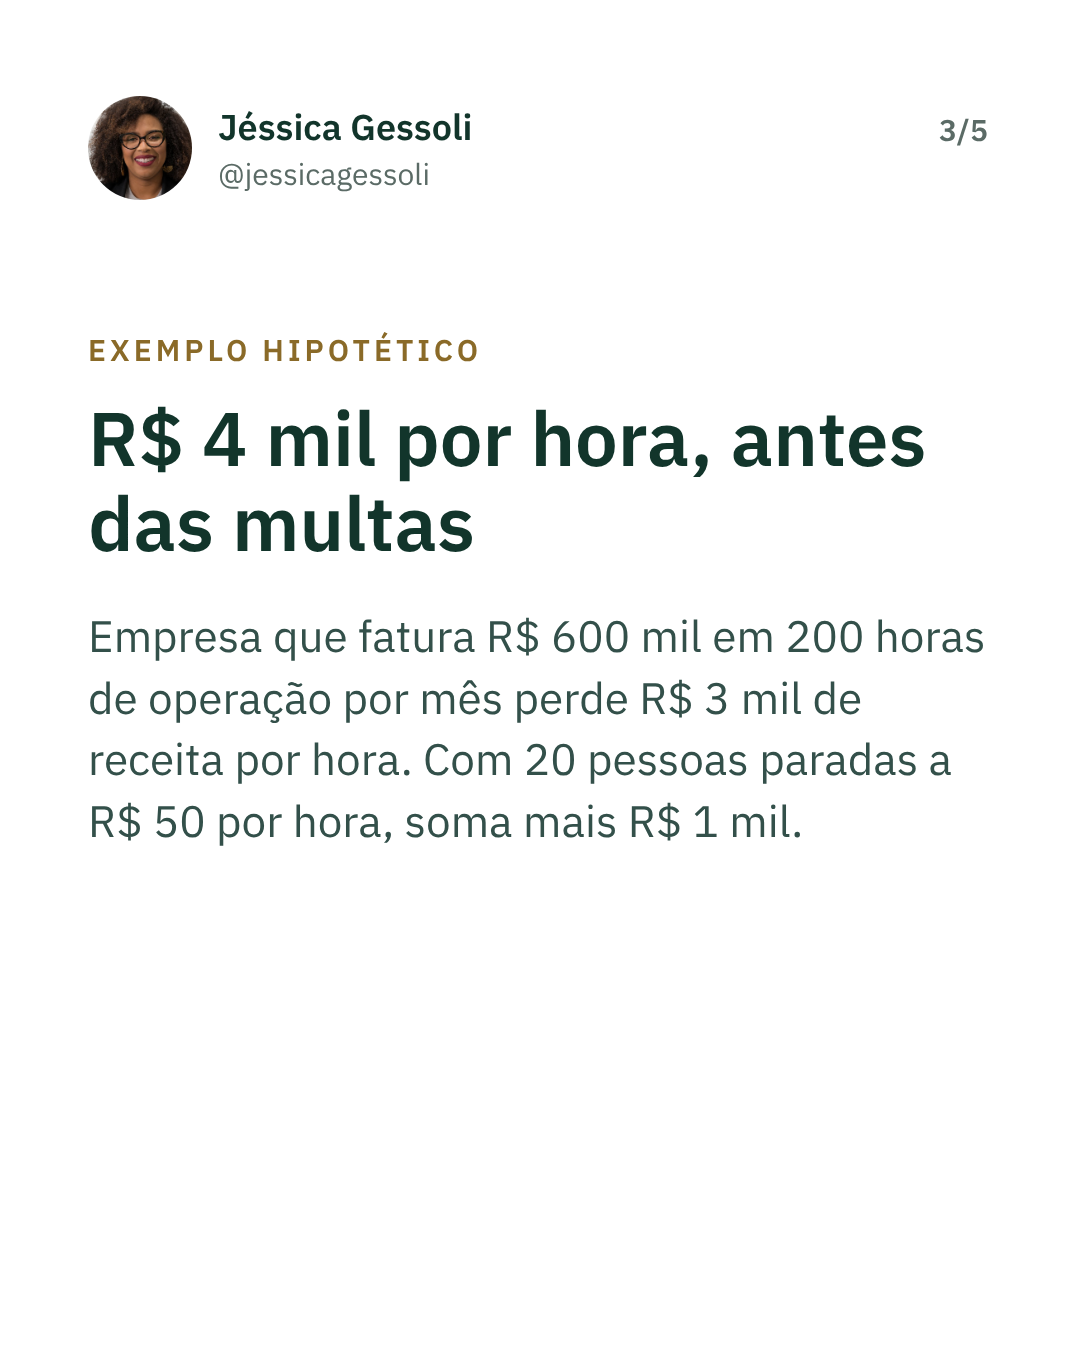
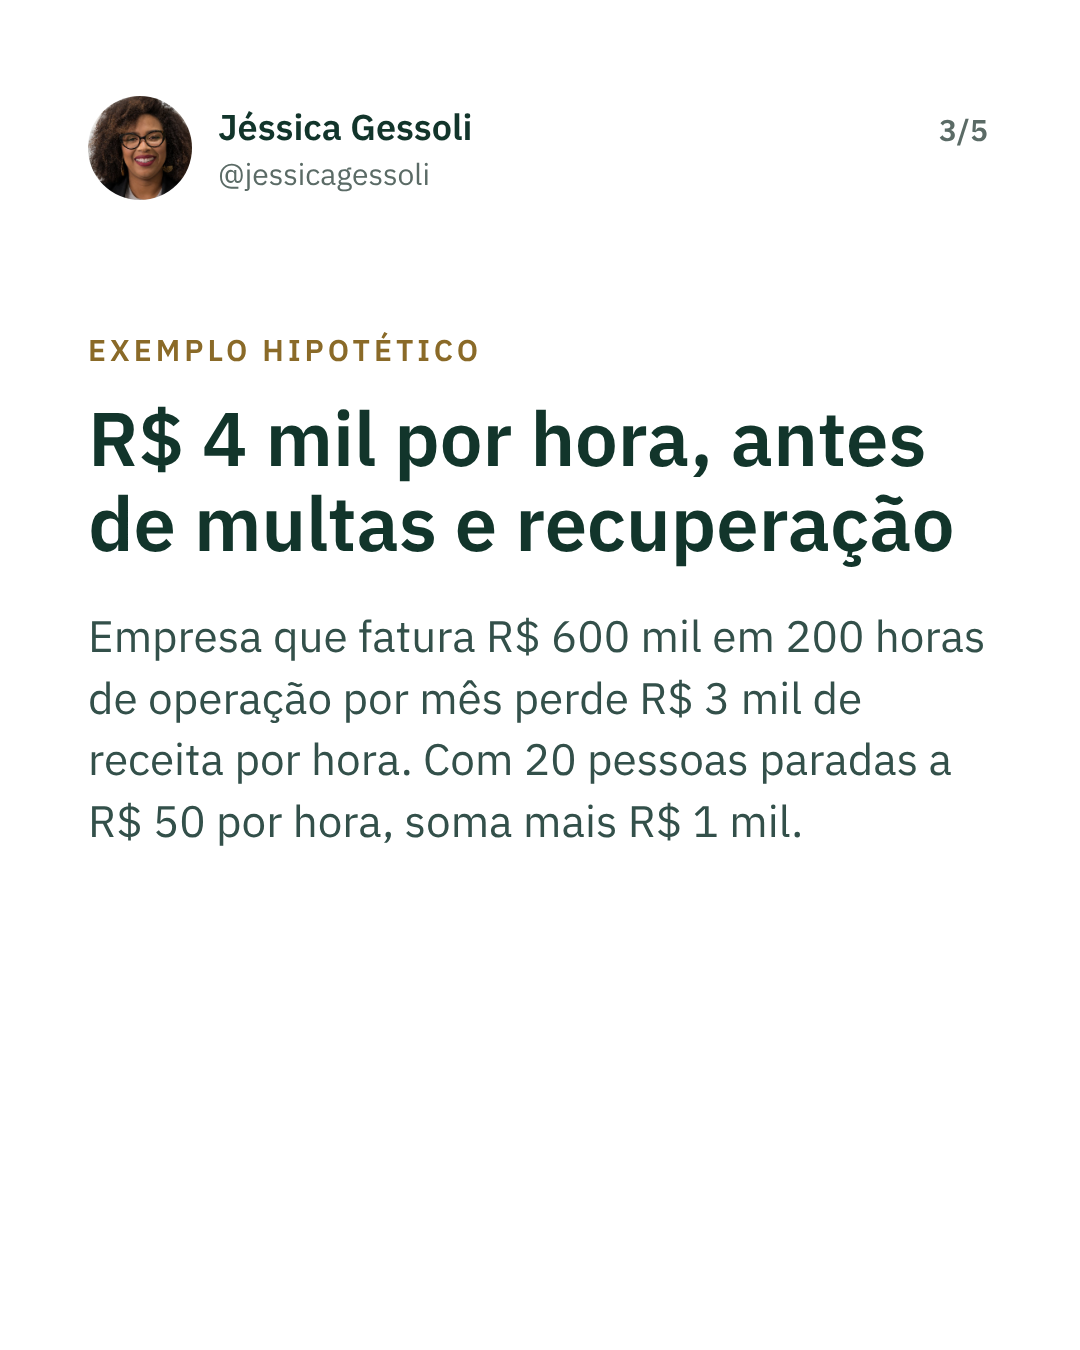
Revisão dos posts de 10/11 a 22/01: concordância, termos em inglês e afirmações sem fonte
Claude-Session: https://claude.ai/code/session_01RS39gKmJF241FbCuKhxQg6

Changed region(s): [[0.1222, 0.3422, 0.8861, 0.4356]]

diff --git a/campaigns/social/lote-2026-11-a-2027-01/posts_jan.py b/campaigns/social/lote-2026-11-a-2027-01/posts_jan.py
@@ -49,13 +49,13 @@ A política de IA da sua empresa cabe em 1 página, ou ela ainda não existe? Me
   slides=[
    ("cover", "Ano novo, senha nova? Faça [[isto]] no lugar.", "2 passos que protegem mais →"),
    ("text", "PASSO Nº 1", "Gerenciador de senhas", "Um aplicativo que cria e guarda uma senha diferente para cada conta. Você só decora uma."),
-   ("text", "PASSO Nº 2", "Confirmação em duas etapas", "No e-mail, no banco, no WhatsApp e nas redes do seu Negócio. Mesmo com a senha, o golpista não entra."),
+   ("text", "PASSO Nº 2", "Confirmação em duas etapas", "No e-mail, no banco, no WhatsApp e nas redes do seu Negócio. Mesmo com a senha, fica muito mais difícil o golpista entrar."),
    ("end", "AGORA ME RESPONDE", "Você usa a [[mesma senha]] em mais de um lugar?", "Seja sincero no direct. Eu te ajudo a começar."),
   ],
   texto="""Ano novo, senha nova? Faça isto no lugar.
 
 1. Gerenciador de senhas: um aplicativo que cria e guarda uma senha diferente para cada conta. Você só decora uma.
-2. Confirmação em duas etapas no e-mail, no banco, no WhatsApp e nas redes do seu Negócio. Mesmo com a senha, o golpista não entra.
+2. Confirmação em duas etapas no e-mail, no banco, no WhatsApp e nas redes do seu Negócio. Mesmo com a senha, fica muito mais difícil o golpista entrar.
 
 Trocar todas as senhas por outras parecidas não resolve. Senha repetida é o que faz um vazamento virar vários.
 
@@ -78,7 +78,7 @@ Continuidade de negócios começa por três perguntas:
 2. Em quanto tempo dói? Em quantas horas a parada vira multa, cliente perdido ou operação travada.
 3. O plano cabe nesse tempo? Se o processo aguenta 4 horas e a restauração leva 2 dias, o plano não existe.
 
-Em infraestrutura crítica, onde parar não é opção, essa conta é o ponto de partida. Na maioria das empresas, ela só aparece na crise.
+Em infraestrutura crítica, onde parar não é opção, essa conta é o ponto de partida. Em muitas empresas, ela só aparece na crise.
 
 Qual processo da sua empresa aguenta menos tempo parado? Responde nos comentários com o processo e as horas.
 
@@ -91,7 +91,7 @@ Qual processo da sua empresa aguenta menos tempo parado? Responde nos comentári
 Entre 2016 e 2019, tive um restaurante próprio, com operação digital, pagamentos, indicadores e atendimento ao cliente. Do outro lado da mesa, três coisas ficaram claras:
 
 1. Para o dono, sistema parado não é incidente. É fila, pedido perdido e caixa vazio no fim do dia.
-2. Quem tem um negócio pequeno não precisa de mais ferramenta. Precisa saber o que fazer primeiro.
+2. Quem é dono de um Negócio não precisa de mais ferramenta. Precisa saber o que fazer primeiro.
 3. Recomendação que não cabe no orçamento e na rotina não é recomendação.
 
 Hoje, quando falo com diretoria ou com dono de Negócio, essa é a régua.
@@ -169,8 +169,8 @@ Quantas contas de administrador a sua empresa tem hoje? Se ninguém sabe o núme
   slides=[
    ("cover", "Quanto custa [[1 hora parada]]? A conta que a diretoria entende.", "A fórmula em 4 partes →"),
    ("list", "A FÓRMULA", "Custo de 1 hora parada =", ["Receita que deixa de entrar na hora.", "+ Custo da equipe parada.", "+ Multas e penalidades de contrato.", "+ Custo de recuperação: horas extras, fornecedor, retrabalho."]),
-   ("text", "EXEMPLO HIPOTÉTICO", "R$ 4 mil por hora, antes das multas", "Empresa que fatura R$ 600 mil em 200 horas de operação por mês perde R$ 3 mil de receita por hora. Com 20 pessoas paradas a R$ 50 por hora, soma mais R$ 1 mil."),
-   ("text", "PARA QUE SERVE", "Comparar com o custo de prevenir", "Um teste de restauração ou uma segunda etapa de login custa menos que algumas horas paradas. Agora a diretoria consegue comparar."),
+   ("text", "EXEMPLO HIPOTÉTICO", "R$ 4 mil por hora, antes de multas e recuperação", "Empresa que fatura R$ 600 mil em 200 horas de operação por mês perde R$ 3 mil de receita por hora. Com 20 pessoas paradas a R$ 50 por hora, soma mais R$ 1 mil."),
+   ("text", "PARA QUE SERVE", "Comparar com o custo de prevenir", "Um teste de restauração ou uma segunda etapa de login costuma custar menos que algumas horas paradas. Agora a diretoria consegue comparar."),
    ("end", "AGORA ME RESPONDA", "A sua diretoria sabe o custo de [[1 hora parada]]?", "Responde nos comentários: sim, mais ou menos ou não."),
   ],
   texto="""Quanto custa 1 hora parada? Essa é a conta que a diretoria entende.
@@ -181,7 +181,7 @@ Custo de 1 hora parada =
 3. + Multas e penalidades de contrato
 4. + Custo de recuperação: horas extras, fornecedor, retrabalho
 
-Exemplo hipotético: uma empresa que fatura R$ 600 mil em 200 horas de operação por mês perde R$ 3 mil de receita por hora. Com 20 pessoas paradas a R$ 50 por hora, soma mais R$ 1 mil. São R$ 4 mil por hora antes das multas.
+Exemplo hipotético: uma empresa que fatura R$ 600 mil em 200 horas de operação por mês perde R$ 3 mil de receita por hora. Com 20 pessoas paradas a R$ 50 por hora, soma mais R$ 1 mil. São R$ 4 mil por hora, antes de multas e custos de recuperação.
 
 Com esse número, a diretoria consegue comparar o custo de prevenir com o custo de parar.
 
@@ -193,14 +193,14 @@ A sua diretoria sabe o custo de 1 hora parada? Responde nos comentários: sim, m
  dict(slug="2027-01-19-ia-sem-lei", rede="linkedin", data="2027-01-19T11:00:00", tipo="documento",
   titulo_doc="O que o regulador exige do board: inteligência artificial",
   slides=[
-   ("cover", "O Brasil ainda não tem lei de IA. Isso [[não deixa]] o board sem obrigação.", "O que já vale hoje →"),
+   ("cover", "O Brasil ainda não tem lei de IA. Isso [[não deixa]] o conselho sem obrigação.", "O que já vale hoje →"),
    ("text", "O PROJETO", "PL 2338/2023", "O Marco Legal da IA foi aprovado no Senado em dezembro de 2024. Na Câmara, aguarda o parecer do relator na comissão especial."),
    ("text", "O QUE JÁ VALE", "LGPD, artigo 20", "Quem é afetado por decisão tomada só com base em tratamento automatizado de dados pessoais pode pedir a revisão dessa decisão. Vale para IA que decide crédito, preço ou acesso."),
    ("text", "O QUE OS SETORES FAZEM", "Regras de cibersegurança e de terceirização", "Banco Central, CVM e SUSEP ainda não têm norma de IA. Mas a IA contratada de fornecedor já cai nas regras de cibersegurança, dados e terceirização de cada setor."),
    ("list", "PARA O CONSELHO", "3 perguntas", ["Que decisões automáticas da empresa afetam clientes?", "Conseguimos explicar e revisar essas decisões se alguém pedir?", "A IA dos fornecedores está nos nossos contratos e na nossa política?"]),
    ("end", "AGORA ME RESPONDA", "A sua empresa espera a lei de IA ou [[se prepara]] com as regras que já existem?", "Fontes: Câmara dos Deputados, LCF Monitor e TozziniFreire (2026)."),
   ],
-  texto="""O Brasil ainda não tem lei de IA. Isso não deixa o board sem obrigação.
+  texto="""O Brasil ainda não tem lei de IA. Isso não deixa o conselho sem obrigação.
 
 O que já vale hoje:
 1. O PL 2338/2023, o Marco Legal da IA, foi aprovado no Senado em dezembro de 2024 e aguarda parecer na Câmara.
@@ -241,13 +241,13 @@ Os assistentes de IA da sua empresa podem agir ou só responder? Me conta nos co
  dict(slug="2027-01-20-ig-ia-sem-lei", rede="instagram", data="2027-01-20T10:00:00", tipo="carrossel",
   slides=[
    ("cover", "Ainda não existe lei de IA no Brasil. Isso [[não te protege]].", "O que já vale para o seu Negócio →"),
-   ("text", "O QUE JÁ VALE", "A LGPD", "Se a IA decide algo sobre o seu cliente, como preço ou crédito, ele pode pedir que uma pessoa revise. E dado de cliente continua protegido."),
+   ("text", "O QUE JÁ VALE", "A LGPD", "Se a IA decide sozinha algo sobre o seu cliente, como preço ou crédito, ele pode pedir a revisão dessa decisão. E dado de cliente continua protegido."),
    ("list", "O QUE FAZER AGORA", "3 regras", ["Saiba quais IAs a sua equipe usa.", "Dado de cliente não entra em IA aberta.", "Decisão importante passa por uma pessoa."]),
    ("end", "AGORA ME RESPONDE", "A sua equipe já tem [[regras]] para usar IA?", "Me chama no direct que eu te ajudo a montar."),
   ],
   texto="""Ainda não existe lei de IA no Brasil. Isso não te protege.
 
-A LGPD já vale: se a IA decide algo sobre o seu cliente, como preço ou crédito, ele pode pedir que uma pessoa revise. E dado de cliente continua protegido.
+A LGPD já vale: se a IA decide sozinha algo sobre o seu cliente, como preço ou crédito, ele pode pedir a revisão dessa decisão. E dado de cliente continua protegido.
 
 O que fazer agora:
 1. Saiba quais IAs a sua equipe usa.
@@ -297,7 +297,7 @@ I share the Portuguese version of these topics for business owners on Instagram 
   ],
   texto="""O mapa do regulador: quem cobra cibersegurança do seu setor.
 
-Em 12 partes, a série "O que o regulador exige do board" passou por todos os setores regulados. O resumo:
+Em 12 partes, a série "O que o regulador exige do board" passou pelos principais setores regulados. O resumo:
 
 1. Sistema financeiro já tem regra: CMN 4.893 para bancos, BCB 85 e BCB 538 para pagamentos e corretoras, CVM 35 e 135 para o mercado de capitais e Circular SUSEP 638 para seguros.
 2. Infraestrutura e dados também: REN ANEEL 964 e rotina do ONS para energia, Resolução Anatel 740 para telecom, Resolução CD/ANPD 15 para dados pessoais e RDC Anvisa 657 para software médico.

diff --git a/campaigns/social/lote-2026-11-a-2027-01/posts_nov.py b/campaigns/social/lote-2026-11-a-2027-01/posts_nov.py
@@ -19,7 +19,7 @@ POSTS = [
 A Resolução BCB 85/2021 já pedia que o conselho aprovasse a política de segurança cibernética e o plano de resposta a incidentes. A Resolução BCB 538/2025 foi além:
 
 1. Passou a valer também para corretoras, distribuidoras e corretoras de câmbio.
-2. Exige teste de intrusão anual e independente, com plano de ação para cada achado.
+2. Exige teste de intrusão anual e independente, com plano de ação.
 3. O relatório que chega ao conselho até 31 de março agora traz os incidentes relevantes e o resultado dos testes.
 
 Na prática, o teste deixou de ser assunto da equipe técnica. Virou documento que o conselho precisa ler e cobrar.
@@ -31,7 +31,7 @@ Série "O que o regulador exige do board", parte 5. """ + IG),
  dict(slug="2026-11-11-agente-ia-permissoes", rede="linkedin", data="2026-11-11T11:00:00", tipo="carrossel",
   slides=[
    ("cover", "Agente de IA com acesso a tudo é um funcionário que [[ninguém entrevistou]].", "3 controles antes de liberar →"),
-   ("text", "O QUE MUDOU", "A IA começou a agir", "Agentes de IA não só respondem: enviam e-mail, mexem em planilha, aprovam etapas. Cada acesso que ele recebe é um acesso que alguém pode usar contra a empresa."),
+   ("text", "O QUE MUDOU", "A IA começou a agir", "Agentes de IA não só respondem: enviam e-mail, mexem em planilha, aprovam etapas. Cada acesso que um agente recebe é um acesso que alguém pode usar contra a empresa."),
    ("text", "CONTROLE Nº 1", "Acesso mínimo", "O agente recebe só o acesso que a tarefa exige, por tempo definido. Nada de copiar o perfil de um gestor."),
    ("text", "CONTROLE Nº 2", "Humano no que não volta atrás", "Pagamento, exclusão de dados e envio para cliente passam por aprovação de uma pessoa."),
    ("text", "CONTROLE Nº 3", "Registro de tudo", "Cada ação do agente fica registrada, com data e motivo. Sem registro, ninguém explica o erro depois."),
@@ -107,7 +107,7 @@ Passei por telecomunicações, bancos, seguros, saúde e infraestrutura crítica
 
 Em todos esses anos, a pergunta de quem decide foi a mesma: "quanto isso custa se der errado, e o que eu preciso decidir hoje?"
 
-O que mudou foi a velocidade:
+Na minha leitura, o que mudou foi a velocidade:
 1. O incidente que levava dias para aparecer hoje aparece em horas.
 2. O regulador que pedia política agora pede teste e relatório.
 3. A IA colocou decisão automática onde antes havia uma pessoa.
@@ -202,7 +202,7 @@ Qual fornecedor, se parar amanhã, para a sua empresa? Responde só com o tipo d
   ],
   texto="""Telecom: a Anatel já cobra cibersegurança também dos fornecedores.
 
-O Regulamento de Segurança Cibernética (Resolução Anatel 740/2020) pede política de segurança cibernética e gestão de incidentes. Desde então, três mudanças:
+O Regulamento de Segurança Cibernética (Resolução Anatel 740/2020) pede política de segurança cibernética e gestão de incidentes. Desde então, vieram duas mudanças e uma revisão está em andamento:
 
 1. Resolução Anatel 767/2024: toda prestadora avisa a Anatel sempre que notificar um incidente à ANPD, e a política passa a cobrir fornecedores (capacidade, risco e dependência).
 2. Resolução Anatel 780/2025: a prestadora só contrata data center certificado, com segurança física e cibernética.
@@ -217,7 +217,7 @@ Série "O que o regulador exige do board", parte 7. """ + IG),
  dict(slug="2026-11-25-deepfake-voz", rede="linkedin", data="2026-11-25T11:00:00", tipo="carrossel",
   slides=[
    ("cover", "A voz era do diretor. O pedido de transferência, [[não]].", "Deepfake de voz: 3 controles →"),
-   ("text", "O GOLPE", "IA imita a voz de quem manda", "Com áudios públicos de entrevistas e vídeos, ferramentas de IA já imitam a voz de um executivo e pedem um pagamento urgente ao financeiro."),
+   ("text", "O GOLPE", "IA imita a voz de quem manda", "Com áudios públicos de entrevistas e vídeos, ferramentas de IA podem imitar a voz de um executivo para pedir um pagamento urgente ao financeiro."),
    ("text", "CONTROLE Nº 1", "Confirmação por outro canal", "Pedido de pagamento fora do comum é confirmado por um canal diferente do que chegou, com número já conhecido."),
    ("text", "CONTROLE Nº 2", "Dupla aprovação", "Acima de um valor definido, duas pessoas aprovam. Sem exceção para \"urgência do diretor\"."),
    ("text", "CONTROLE Nº 3", "Treino do financeiro", "Quem paga precisa ter autorização para dizer \"vou confirmar\" até para o presidente."),
@@ -225,7 +225,7 @@ Série "O que o regulador exige do board", parte 7. """ + IG),
   ],
   texto="""A voz era do diretor. O pedido de transferência, não.
 
-Com áudios públicos de entrevistas e vídeos, ferramentas de IA já conseguem imitar a voz de um executivo e pedir um pagamento urgente ao financeiro.
+Com áudios públicos de entrevistas e vídeos, ferramentas de IA podem imitar a voz de um executivo para pedir um pagamento urgente ao financeiro.
 
 Três controles que funcionam mesmo contra uma voz perfeita:
 1. Confirmação por outro canal, com número já conhecido.

diff --git a/campaigns/social/lote-2026-11-a-2027-01/posts_dez.py b/campaigns/social/lote-2026-11-a-2027-01/posts_dez.py
@@ -55,7 +55,7 @@ Você sabe onde ficam os dados dos seus pacientes? Me chama no direct que eu te 
  dict(slug="2026-12-03-ransomware-decisoes", rede="linkedin", data="2026-12-03T11:00:00", tipo="carrossel",
   slides=[
    ("cover", "Ransomware às 3 da manhã: as decisões que a diretoria deveria ter tomado [[ontem]].", "4 decisões para tomar antes →"),
-   ("text", "DECISÃO Nº 1", "Quem pode desligar tudo", "Isolar sistemas para conter o ataque também para a operação. Alguém precisa ter autoridade para isso, sem reunião."),
+   ("text", "DECISÃO Nº 1", "Quem pode desligar tudo", "Isolar sistemas contém o ataque, mas também para a operação. Alguém precisa ter autoridade para isso, sem reunião."),
    ("text", "DECISÃO Nº 2", "Quem fala com cliente e imprensa", "Uma voz só, com mensagem aprovada antes. O silêncio vira boato em poucas horas."),
    ("text", "DECISÃO Nº 3", "Quem chama jurídico e seguradora", "O contrato de seguro e as obrigações com a ANPD e o regulador do setor têm prazos. O relógio começa quando a empresa toma conhecimento."),
    ("text", "DECISÃO Nº 4", "Qual sistema volta primeiro", "A ordem de volta define quando a empresa volta a faturar. É decisão de negócio."),
@@ -170,7 +170,7 @@ Quem confere os boletos no seu Negócio? Salva e manda para quem paga as contas.
   slides=[
    ("cover", "Senha sozinha não [[protege]] mais. Por onde começar a segunda etapa.", "3 lugares primeiro →"),
    ("text", "LUGAR Nº 1", "E-mail", "Quem entra no e-mail troca a senha de quase todo o resto. É a primeira porta a fechar."),
-   ("text", "LUGAR Nº 2", "Banco e pagamentos", "Contas da empresa, gateway de pagamento e qualquer sistema que movimente dinheiro."),
+   ("text", "LUGAR Nº 2", "Banco e pagamentos", "Contas da empresa, meios de pagamento e qualquer sistema que movimente dinheiro."),
    ("text", "LUGAR Nº 3", "Acesso remoto e nuvem", "VPN, painel de administração da nuvem e contas com poder de apagar ou exportar dados."),
    ("end", "AGORA ME RESPONDA", "Na sua empresa, os [[administradores]] já usam a segunda etapa?", "Responde nos comentários: todos, alguns ou nenhum."),
   ],
@@ -231,7 +231,7 @@ Série "O que o regulador exige do board", parte 10. """ + IG),
    ("cover", "Férias coletivas: quem cuida da [[empresa digital]] enquanto todo mundo descansa?", "Checklist antes de fechar →"),
    ("list", "ANTES DE SAIR", "3 coisas", ["Faça uma cópia dos dados importantes e confira se ela abre.", "Corte o acesso de quem saiu da equipe no ano.", "Ative a confirmação em duas etapas no e-mail e no banco."]),
    ("list", "DURANTE AS FÉRIAS", "2 coisas", ["Uma pessoa de plantão, com telefone de quem chamar.", "Pagamento novo só depois da volta, ou com confirmação por telefone."]),
-   ("end", "AGORA ME RESPONDE", "Quem fica de [[plantão]] no seu Negócio?", "Salva este checklist e manda para a equipe."),
+   ("end", "AGORA ME RESPONDE", "Quem fica de [[plantão]] no seu Negócio?", "Salva esta lista e manda para a equipe."),
   ],
   texto="""Férias coletivas: quem cuida da empresa digital enquanto todo mundo descansa?
 
@@ -242,7 +242,7 @@ Antes de sair:
 
 Durante as férias: uma pessoa de plantão com o telefone de quem chamar, e pagamento novo só com confirmação por telefone.
 
-Quem fica de plantão no seu Negócio? Salva este checklist e manda para a equipe. Ficou dúvida? Me chama no direct.
+Quem fica de plantão no seu Negócio? Salva esta lista e manda para a equipe. Ficou dúvida? Me chama no direct.
 
 #empreendedorismo #cibersegurança #férias #gestão #segurançadigital"""),
 
@@ -314,7 +314,7 @@ Qual dessas 3 já está no seu orçamento? Responde nos comentários: 1, 2, 3 ou
   slides=[("cover", "Em 2027, a pergunta não será se a equipe usa IA. Será [[quem responde]] por ela.", "Boas festas e até janeiro ↓")],
   texto="""Em 2027, a pergunta não será se a equipe usa IA. Será quem responde por ela.
 
-Neste ano, falei aqui de IA com acesso demais, de contrato com fornecedor de IA e de regras simples para a equipe. O fio que liga tudo é o mesmo: cada uso de IA precisa de um dono de negócio.
+Neste ano, falei aqui de controles mínimos de IA, de agentes com acesso demais e de contrato com fornecedor de IA. O fio que liga tudo é o mesmo: cada uso de IA precisa de um dono de negócio.
 
 Três perguntas para levar para janeiro:
 1. Sabemos quais ferramentas de IA a equipe usa?
